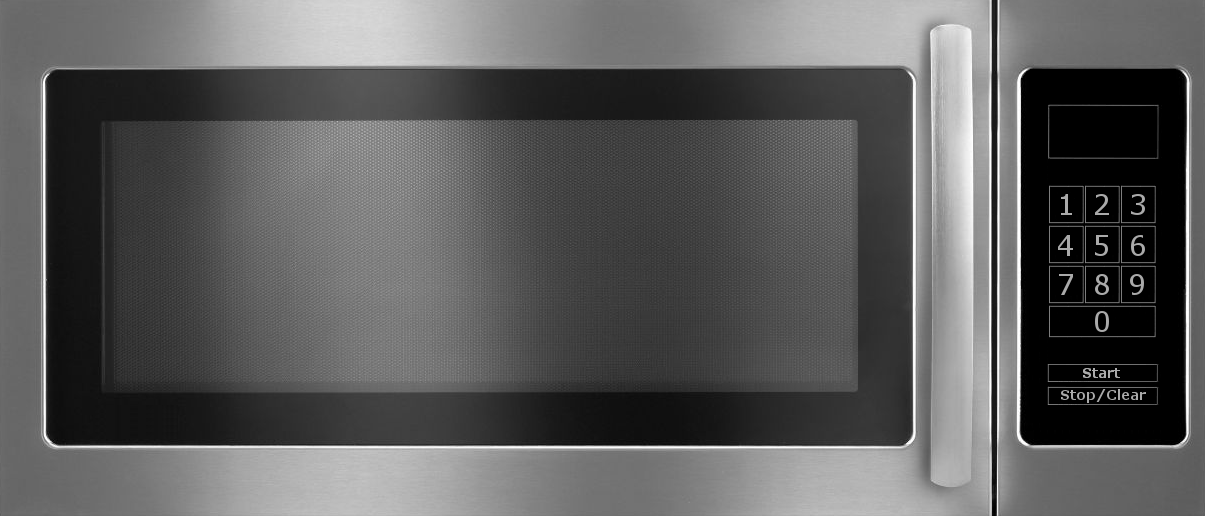
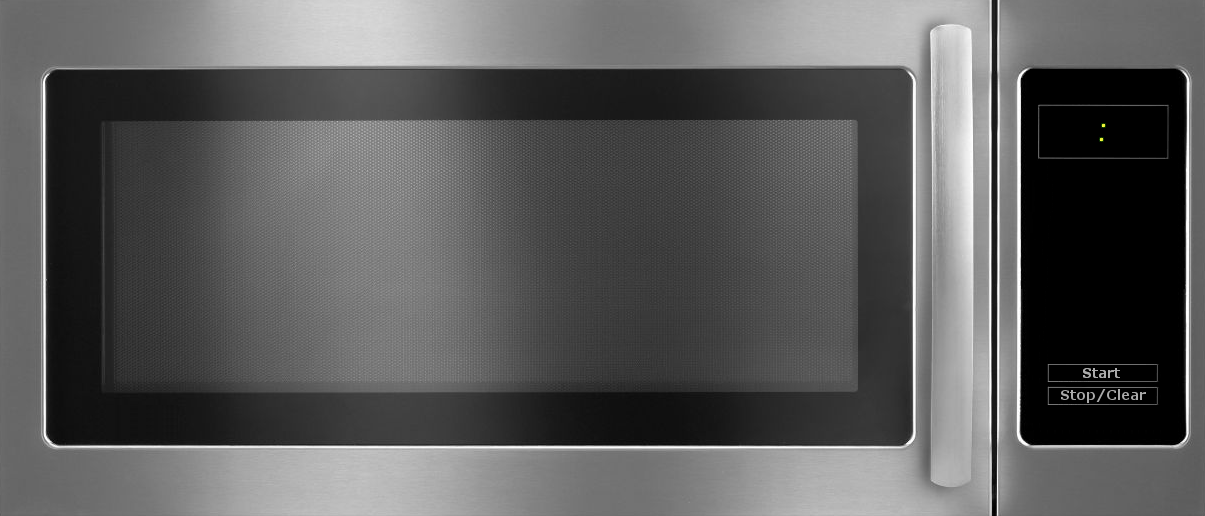
Buttons now update display

Changed region(s): [[0.8598, 0.3721, 0.9519, 0.6512], [0.9519, 0.2171, 0.9826, 0.3101]]

diff --git a/src/main/java/com/teamdc/stephendiniz/microwave/GUI.java b/src/main/java/com/teamdc/stephendiniz/microwave/GUI.java
@@ -1,6 +1,10 @@
 package com.teamdc.stephendiniz.microwave;
 
+import java.awt.Color;
 import java.awt.Dimension;
+import java.awt.event.MouseEvent;
+import java.awt.event.MouseListener;
+import java.awt.event.MouseMotionListener;
 import java.awt.image.BufferedImage;
 import java.io.IOException;
 
@@ -12,31 +16,247 @@ import javax.swing.JPanel;
 
 public class GUI extends JFrame {
 
+	private final int X_DISPLAY = 1045;
+	private final int Y_DISPLAY = 115;
+	private final int W_DISPLAY = 52;
+	private final int H_DISPLAY = 34;
+	
+	private final int X_BUTTONS = 1049;
+	private final int Y_BUTTONS = 186;
+	private final int W_BUTTONS = 107;
+	private final int H_BUTTONS = 148;
+
+	private final int DISPLAY_OFFSET = 62;
+	
+	private final int PAD_DISPLAY = 4;
+	private final int PAD_BUTTON = 1;
+	
+	private final int W_MICROWAVE = 1205;
+	private final int H_MICROWAVE = 516;
+	
+	private final int W_DIS_NUMBER = 24;
+	private final int H_DIS_NUMBER = 34;
+	
+	private final int W_BUTTON = 35;
+	private final int H_BUTTON = 37;
+	
+	private final int W_BUTTON_ZERO = 107;
+	private final int H_BUTTON_ZERO = 31;
+	
+	private JPanel panel;
+
+	private JPanel displayPanelLeft;
+	private JPanel displayPanelRight;
+	
+	private JPanel buttonPanel;
+
+	private BufferedImage[] displayNumbers;
+	private ImageIcon[] displayIcons = new ImageIcon[10];
+	private JLabel[] displayLabels = new JLabel[4];
+
+	private BufferedImage[] buttonNumbers;
+	private JLabel[] buttonLabels = new JLabel[10];
+	
+	private int numbersPresent = 0;
+	private int[] numbers = new int[4];
+	
 	public GUI(String windowTitle, int width, int height) {
 		initialize(windowTitle, width, height);
 	}
-	
+
 	private void initialize(String windowTitle, int width, int height) {
+		// Initialize Panels
+		panel = new JPanel(null);
+
+		// Create Main Microwave Image
 		BufferedImage microwave;
 		JLabel microwaveLabel = null;
 		try {
 			microwave = ImageIO.read(getClass().getResource("/images/microwave.png"));
 			microwaveLabel = new JLabel(new ImageIcon(microwave));
+			microwaveLabel.setBounds(0, 0, W_MICROWAVE, H_MICROWAVE);
 		}
 		catch(IOException ioe) {
 			ioe.printStackTrace();
 		}
 
-		JPanel panel = new JPanel();
+		// Add Display Labels to appropriate places
+		initializeDisplayPanel();
+		
+		// Add Button Panel
+		initializeButtonPanel();
 
+		// Add Items to Main Panel
+		panel.add(displayPanelLeft);
+		panel.add(displayPanelRight);
+		panel.add(buttonPanel);
 		panel.add(microwaveLabel);
 		
-		add(panel);
-		
+		// Initialize JFrame and make Visible
 		this.setTitle(windowTitle);
+		this.setContentPane(panel);
 		this.setSize(new Dimension(width, height));
-		this.setResizable(false);
 		this.setVisible(true);
 		this.setDefaultCloseOperation(JFrame.EXIT_ON_CLOSE);
+	}
+	
+	private void initializeDisplayPanel() {
+		// Initialize Display Numbers
+		BufferedImage displayNumbers_BI = null;
+		try {
+			displayNumbers_BI = ImageIO.read(getClass().getResource("/images/display_numbers.png"));
+		}
+		catch(IOException ioe) {
+			ioe.printStackTrace();
+		}
+		displayNumbers = new BufferedImage[10];
+		int rows = 2;
+		int columns = 5;
+		for(int i = 0; i < rows; i++) {
+			for(int j = 0; j < columns; j++) {
+				displayNumbers[i * columns + j] = displayNumbers_BI.getSubimage(j * W_DIS_NUMBER, i * H_DIS_NUMBER, W_DIS_NUMBER, H_DIS_NUMBER);
+				displayIcons[i * columns + j] = new ImageIcon(displayNumbers[i * columns + j]);
+			}
+		}
+
+		// Initialize Panels
+		displayPanelLeft = new JPanel(null);
+		displayPanelRight = new JPanel(null);
+
+		// Set Background Color
+		displayPanelLeft.setBackground(new Color(0));
+		displayPanelRight.setBackground(new Color(0));
+		
+		// Set Positions
+		displayPanelLeft.setBounds(X_DISPLAY, Y_DISPLAY, W_DISPLAY, H_DISPLAY);
+		displayPanelRight.setBounds((X_DISPLAY + DISPLAY_OFFSET), Y_DISPLAY, W_DISPLAY, H_DISPLAY);
+		
+		// First Number
+		displayLabels[0] = new JLabel(displayIcons[0]);
+		displayLabels[0].setBounds((0 * W_DIS_NUMBER), 0, W_DIS_NUMBER, H_DIS_NUMBER);
+		displayPanelLeft.add(displayLabels[0]);
+		
+		// Second Number
+		displayLabels[1] = new JLabel(displayIcons[0]);
+		displayLabels[1].setBounds((1 * W_DIS_NUMBER + PAD_DISPLAY), 0, W_DIS_NUMBER, H_DIS_NUMBER);
+		displayPanelLeft.add(displayLabels[1]);
+		
+		// Third Number
+		displayLabels[2] = new JLabel(displayIcons[0]);
+		displayLabels[2].setBounds((0 * W_DIS_NUMBER), 0, W_DIS_NUMBER, H_DIS_NUMBER);
+		displayPanelRight.add(displayLabels[2]);
+		
+		// Fourth Number
+		displayLabels[3] = new JLabel(displayIcons[0]);
+		displayLabels[3].setBounds((1 * W_DIS_NUMBER + PAD_DISPLAY), 0, W_DIS_NUMBER, H_DIS_NUMBER);
+		displayPanelRight.add(displayLabels[3]);
+		
+		// Initialize Numbers
+		for(int i = 0 ; i < numbers.length; i++) {
+			numbers[i] = 0;
+		}
+	}
+	
+	private void initializeButtonPanel() {
+		// Initialize Buttons
+		BufferedImage buttons_BI = null;
+		buttonNumbers = new BufferedImage[10];
+		try {
+			buttons_BI = ImageIO.read(getClass().getResource("/images/buttons.png"));
+			buttonNumbers[9] = ImageIO.read(getClass().getResource("/images/button_zero.png"));
+		}
+		catch(IOException ioe) {
+			ioe.printStackTrace();
+		}
+		int rows = 3;
+		int columns = 3;
+		for(int i = 0; i < rows; i++) {
+			for(int j = 0; j < columns; j++) {
+				buttonNumbers[i * columns + j] = buttons_BI.getSubimage(j * W_BUTTON, i * H_BUTTON, W_BUTTON, H_BUTTON);
+			}
+		}
+
+		// Initialize Panel
+		buttonPanel = new JPanel(null);
+		
+		// Set Background Color
+		buttonPanel.setBackground(new Color(0));
+
+		// Set Positions
+		buttonPanel.setBounds(X_BUTTONS, Y_BUTTONS, W_BUTTONS, H_BUTTONS);
+		for(int i = 0; i < rows; i++) {
+			for(int j = 0; j < columns; j++) {
+				buttonLabels[i * columns + j] = new JLabel(new ImageIcon(buttonNumbers[i * columns + j]));
+				buttonLabels[i * columns + j].setBounds((j * PAD_BUTTON) + (j * W_BUTTON), (i * 2 * PAD_BUTTON) + (i * H_BUTTON), W_BUTTON, H_BUTTON);
+				buttonPanel.add(buttonLabels[i * columns + j]);
+			}
+		}
+		buttonLabels[9] = new JLabel(new ImageIcon(buttonNumbers[9]));
+		buttonLabels[9].setBounds(0, (6 * PAD_BUTTON) + (3 * H_BUTTON), W_BUTTON_ZERO, H_BUTTON_ZERO);
+		buttonPanel.add(buttonLabels[9]);
+		
+		// Add Click Listeners
+		for(int i = 0; i < (buttonLabels.length - 1); i++) {
+			final int index = i;
+			buttonLabels[i].addMouseListener(new MouseListener() {
+				public void mousePressed(MouseEvent e) {
+					if(canShift()) {
+						shiftNumbers();
+						addToDisplay((index + 1), 3);
+					}
+					else {
+						return;
+					}
+				}
+				
+				// Unimplemented Methods
+				public void mouseClicked(MouseEvent arg0) {}
+				public void mouseEntered(MouseEvent e) {}
+				public void mouseExited(MouseEvent e) {}
+				public void mouseReleased(MouseEvent e) {}
+			});
+		}
+		buttonLabels[9].addMouseListener(new MouseListener() {
+			public void mousePressed(MouseEvent e) {
+				if(canShift()) {
+					shiftNumbers();
+					addToDisplay(0, 3);
+				}
+				else {
+					return;
+				}
+			}
+			
+			// Unimplemented Methods
+			public void mouseClicked(MouseEvent arg0) {}
+			public void mouseEntered(MouseEvent e) {}
+			public void mouseExited(MouseEvent e) {}
+			public void mouseReleased(MouseEvent e) {}
+		});
+	}
+	
+	private void addToDisplay(int number, int index) {
+		displayLabels[index].setIcon(displayIcons[number]);
+		numbers[index] = number;
+	}
+	
+	private void clearDisplay() {
+		for(int i = 0; i < 4; i++) {
+			displayLabels[i].setIcon(displayIcons[i]);
+		}
+	}
+	
+	private void shiftNumbers() {
+		for(int i = 1; i < numbers.length; i++) {
+			addToDisplay(numbers[i], (i-1));
+		}
+	}
+	
+	private boolean canShift() {
+		if(numbersPresent < 4) {
+			return true;
+		}
+		
+		return false;
 	}
 }
